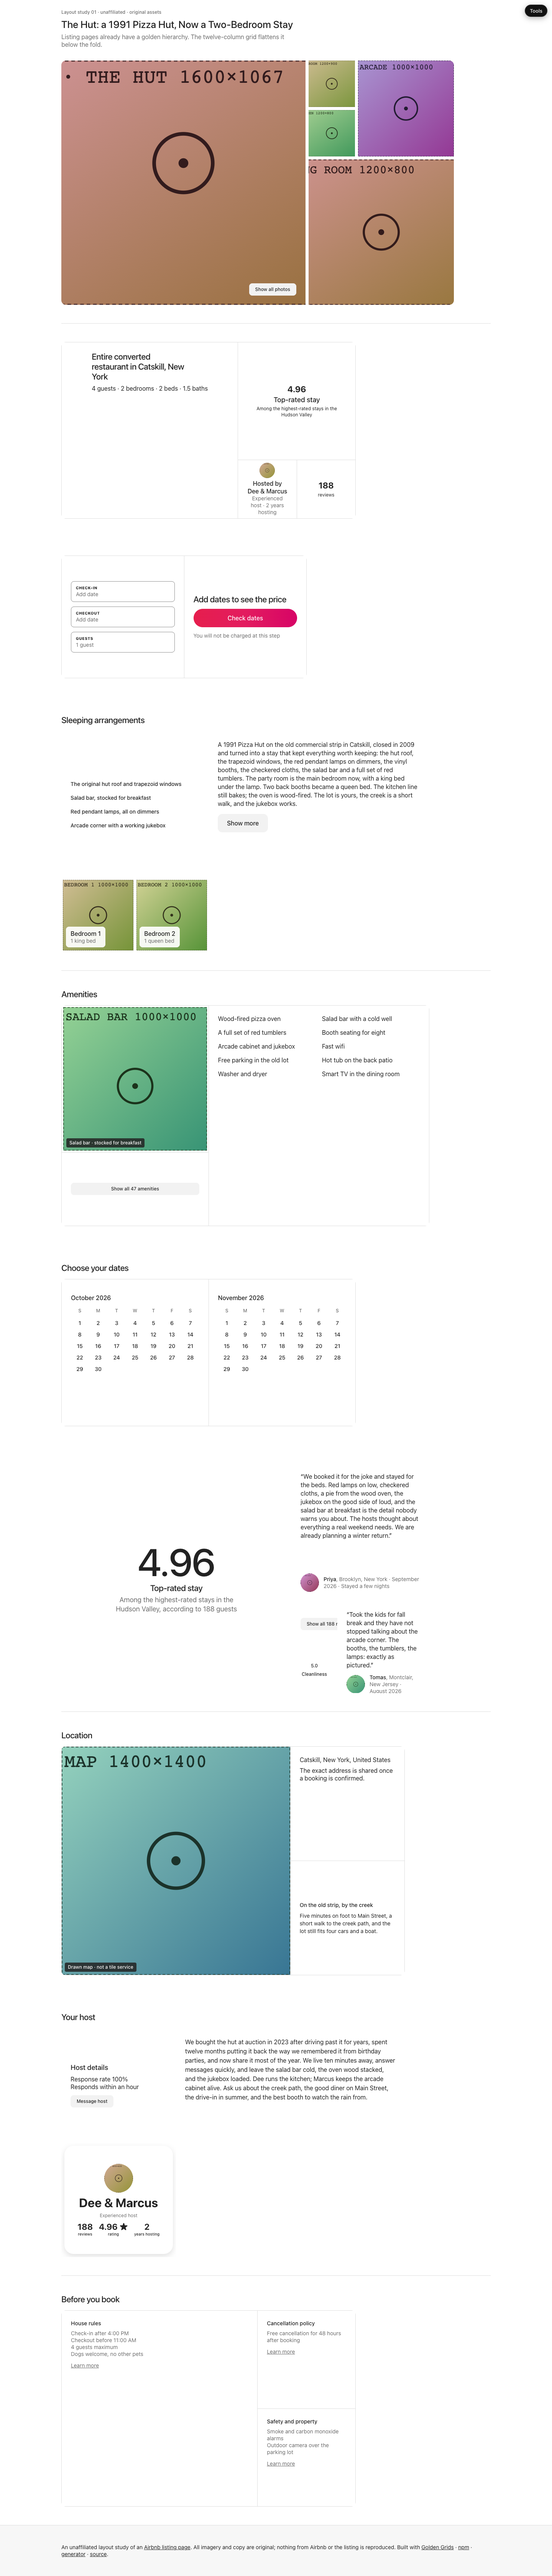
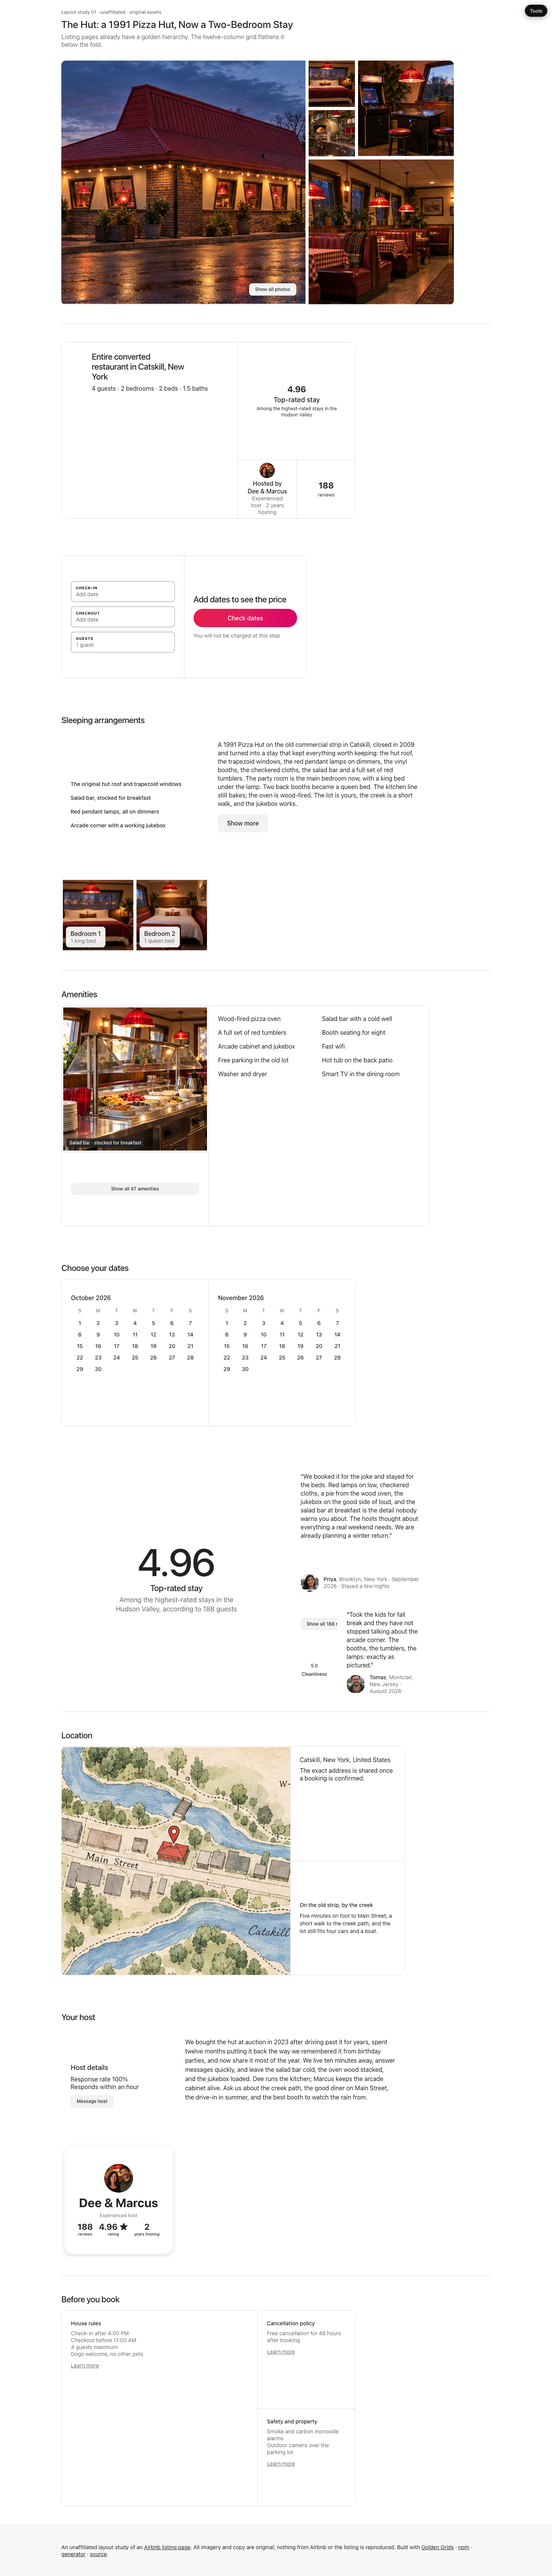
feat: pass two — the twelve images, produced against ASSETS.md
All image slots now hold original photographs and a drawn map delivered
to public/assets/ under the naming rubric, mapped to slots in
src/assets.ts with the shot list's object-position values. No brand marks.
Placeholder generator no longer used by the study. README status and
checklist updated; the post is what remains.

diff --git a/src/assets.ts b/src/assets.ts
@@ -1,0 +1,22 @@
+/**
+ * Study 01 images, produced against ASSETS.md and delivered to public/assets/.
+ * Paths are resolved against the Pages base so a fork never edits them.
+ * `subject` is the object-position from the shot list.
+ */
+const base = import.meta.env.BASE_URL;
+const at = (file: string) => `${base}assets/${file}`;
+
+export const assets = {
+  hero:     { src: at("s01-gallery-hero-hut-dusk-1600x1067-v1.jpg"), subject: "50% 42%" },
+  dining:   { src: at("s01-gallery-s1-dining-room-1200x800-v1.jpg"), subject: "50% 50%" },
+  arcade:   { src: at("s01-gallery-s2-arcade-1000x1000-v1.jpg"), subject: "50% 50%" },
+  bedroom:  { src: at("s01-gallery-s3-bedroom-1200x900-v1.jpg"), subject: "50% 50%" },
+  kitchen:  { src: at("s01-gallery-s4-kitchen-1200x800-v1.jpg"), subject: "50% 50%" },
+  bed1:     { src: at("s01-about-bed1-king-1000x1000-v1.jpg"), subject: "50% 50%" },
+  bed2:     { src: at("s01-about-bed2-booth-bedroom-1000x1000-v1.jpg"), subject: "50% 50%" },
+  saladBar: { src: at("s01-amenities-tile-salad-bar-1000x1000-v1.jpg"), subject: "50% 55%" },
+  hosts:    { src: at("s01-host-avatar-hosts-400x400-v1.png"), subject: "50% 50%" },
+  priya:    { src: at("s01-reviews-r1-priya-200x200-v1.png"), subject: "50% 50%" },
+  tomas:    { src: at("s01-reviews-r2-tomas-200x200-v1.png"), subject: "50% 50%" },
+  map:      { src: at("s01-location-map-strip-1400x1400-v1.png"), subject: "50% 50%" },
+};

diff --git a/src/bands/GalleryBand.tsx b/src/bands/GalleryBand.tsx
@@ -1,17 +1,17 @@
 import { GoldenGrid, GoldenBox } from "@gifcommit/golden-grids";
 import type { PlacementValue } from "@gifcommit/golden-grids";
 import { useViewport, pick } from "../lib/viewport";
-import { placeholderImage } from "../lib/placeholder";
+import { assets } from "../assets";
 import { listing } from "../content";
 import { Band } from "./Band";
 
-// ASSET SPEC — see README.md "Images". Sources at or above these sizes.
+// Shots 1–5 of ASSETS.md, in child order: hero, then supports largest to smallest.
 const photos = [
-  { ...placeholderImage("HERO · THE HUT", 1600, 1067, 355, { x: 0.5, y: 0.42 }), alt: listing.photos.hero },
-  { ...placeholderImage("DINING ROOM", 1200, 800, 0), alt: listing.photos.living },
-  { ...placeholderImage("ARCADE", 1000, 1000, 260), alt: listing.photos.sauna },
-  { ...placeholderImage("BEDROOM", 1200, 900, 40), alt: listing.photos.bedroom },
-  { ...placeholderImage("KITCHEN", 1200, 800, 100), alt: listing.photos.kitchen },
+  { ...assets.hero, alt: listing.photos.hero },
+  { ...assets.dining, alt: listing.photos.living },
+  { ...assets.arcade, alt: listing.photos.sauna },
+  { ...assets.bedroom, alt: listing.photos.bedroom },
+  { ...assets.kitchen, alt: listing.photos.kitchen },
 ];
 
 /**

diff --git a/src/bands/LocationBand.tsx b/src/bands/LocationBand.tsx
@@ -1,10 +1,10 @@
 import { GoldenGrid, GoldenBox } from "@gifcommit/golden-grids";
 import { useViewport } from "../lib/viewport";
-import { placeholderImage } from "../lib/placeholder";
+import { assets } from "../assets";
 import { listing } from "../content";
 import { Band } from "./Band";
 
-const map = placeholderImage("MAP", 1400, 1400, 160, { x: 0.5, y: 0.5 });
+const map = assets.map;
 
 /**
  * Band 8 — Location. The reference: a full-width map (≈16:9 at 1440 and
@@ -28,7 +28,6 @@ export function LocationBand() {
         <GoldenBox>
           <figure className="media">
             <img src={map.src} alt={listing.photos.map} />
-            <figcaption className="media__tag">Drawn map · not a tile service</figcaption>
           </figure>
         </GoldenBox>
         <GoldenBox>

diff --git a/src/bands/ReviewsBand.tsx b/src/bands/ReviewsBand.tsx
@@ -1,11 +1,11 @@
 import { GoldenGrid, GoldenBox } from "@gifcommit/golden-grids";
 import type { PlacementValue } from "@gifcommit/golden-grids";
 import { useViewport, pick } from "../lib/viewport";
-import { placeholderImage } from "../lib/placeholder";
+import { assets } from "../assets";
 import { listing, featuredReview, secondReview } from "../content";
 import { Band } from "./Band";
 
-const avatars = [placeholderImage("R1", 200, 200, 300), placeholderImage("R2", 200, 200, 120)];
+const avatars = [assets.priya, assets.tomas];
 
 /**
  * Band 7 — Reviews. The tallest block on the reference page at 1440 and 820:

diff --git a/src/bands/AboutBand.tsx b/src/bands/AboutBand.tsx
@@ -1,13 +1,10 @@
 import { GoldenGrid, GoldenBox } from "@gifcommit/golden-grids";
 import { useViewport } from "../lib/viewport";
-import { placeholderImage } from "../lib/placeholder";
+import { assets } from "../assets";
 import { listing, description } from "../content";
 import { Band } from "./Band";
 
-const bedroomArt = [
-  placeholderImage("BEDROOM 1", 1000, 1000, 40, { x: 0.5, y: 0.5 }),
-  placeholderImage("BEDROOM 2", 1000, 1000, 60, { x: 0.5, y: 0.5 }),
-];
+const bedroomArt = [assets.bed1, assets.bed2];
 
 /**
  * Band 4 — Sleeping arrangements. In the reference, below the facts: FOUR

diff --git a/src/bands/AmenitiesBand.tsx b/src/bands/AmenitiesBand.tsx
@@ -1,10 +1,10 @@
 import { GoldenGrid, GoldenBox } from "@gifcommit/golden-grids";
 import { useViewport } from "../lib/viewport";
-import { placeholderImage } from "../lib/placeholder";
+import { assets } from "../assets";
 import { listing } from "../content";
 import { Band } from "./Band";
 
-const tub = placeholderImage("SALAD BAR", 1000, 1000, 120, { x: 0.5, y: 0.55 });
+const tub = assets.saladBar;
 
 /**
  * Band 5 — Amenities. The reference: ten amenities in two columns at 1440,

diff --git a/src/bands/HostBand.tsx b/src/bands/HostBand.tsx
@@ -1,10 +1,10 @@
 import { GoldenGrid, GoldenBox } from "@gifcommit/golden-grids";
 import { useViewport } from "../lib/viewport";
-import { placeholderImage } from "../lib/placeholder";
+import { assets } from "../assets";
 import { listing, hostBio } from "../content";
 import { Band } from "./Band";
 
-const avatar = placeholderImage("HOST", 400, 400, 20);
+const avatar = assets.hosts;
 
 /**
  * Band 9 — Your host. The reference: an elevated host card (avatar, name,

diff --git a/src/bands/FactsBand.tsx b/src/bands/FactsBand.tsx
@@ -1,10 +1,10 @@
 import { GoldenGrid, GoldenBox } from "@gifcommit/golden-grids";
 import { useViewport } from "../lib/viewport";
-import { placeholderImage } from "../lib/placeholder";
+import { assets } from "../assets";
 import { listing } from "../content";
 import { Band } from "./Band";
 
-const avatar = placeholderImage("HOST", 400, 400, 20);
+const avatar = assets.hosts;
 
 /**
  * Band 2 — About this place. The reference's first text block: the summary

diff --git a/README.md b/README.md
@@ -12,15 +12,14 @@ Built with [Golden Grids](https://github.com/gregoryedgerton/golden-grids)
 [generator](https://gregoryedgerton.github.io/golden-grids/)), from the
 [study template](https://github.com/gregoryedgerton/golden-grids-study-template).
 
-> **Status: pass one and a half.** The structure is built, every slot is
-> inventoried in the asset spec below, the visual register is matched to the
-> reference, and the copy is original — written in `src/content.ts` for a
-> fictional listing: a 1991 Pizza Hut in Catskill, New York, converted into a
-> two-bedroom stay that kept the hut roof, the trapezoid windows, the red
-> lamps, the booths, the salad bar and the red tumblers. Every image slot
-> still holds an obviously placeholder stand-in at the resolution the spec
-> asks for. The shot list for pass two — one prompt per image, dimensions,
-> and the file-naming rubric — is [`ASSETS.md`](ASSETS.md).
+> **Status: pass two complete.** Structure, visual register, original copy
+> and original images. The listing is fictional: a 1991 Pizza Hut in
+> Catskill, New York, converted into a two-bedroom stay that kept the hut
+> roof, the trapezoid windows, the red lamps, the booths, the salad bar and
+> the red tumblers. Copy is `src/content.ts`; the twelve images in
+> `public/assets/` were produced against the shot list in
+> [`ASSETS.md`](ASSETS.md) and are mapped to slots in `src/assets.ts`.
+> Remaining: the written post.
 
 ---
 
@@ -318,10 +317,10 @@ Brand constraints, from the program brief:
 - [x] No photography, wordmark, or marketing copy from the reference site
       appears anywhere in the repo or the deploy. Captures in `captures/` are
       commentary and are not used as assets.
-- [ ] Every image slot holds real content produced against the asset spec.
-      **(pass two — images)** Copy is done: original, fictional listing,
-      no sentence from the reference or its host reproduced; the reference's
-      section headings and UI strings are reworded.
+- [x] Every image and copy slot holds real content produced against the
+      asset spec. Copy: original, fictional listing, no sentence from the
+      reference or its host reproduced; headings and UI strings reworded.
+      Images: twelve, produced against `ASSETS.md`, no brand marks.
 - [x] The asset spec above is complete: every slot listed with resolution,
       subject placement, safe area, and word counts.
 - [x] The band table matches the source.
@@ -335,4 +334,4 @@ Quality floor, inherited from the template:
 - [x] `prefers-reduced-motion`: nothing on this page moves.
 - [x] Text contrast meets WCAG AA against whatever it sits on, including images.
 - [x] Images that carry meaning have alt text; decorative ones have `alt=""`.
-- [ ] No placeholder images remain. **(pass two)** No bracketed copy remains.
+- [x] No placeholder images remain. No bracketed copy remains.
